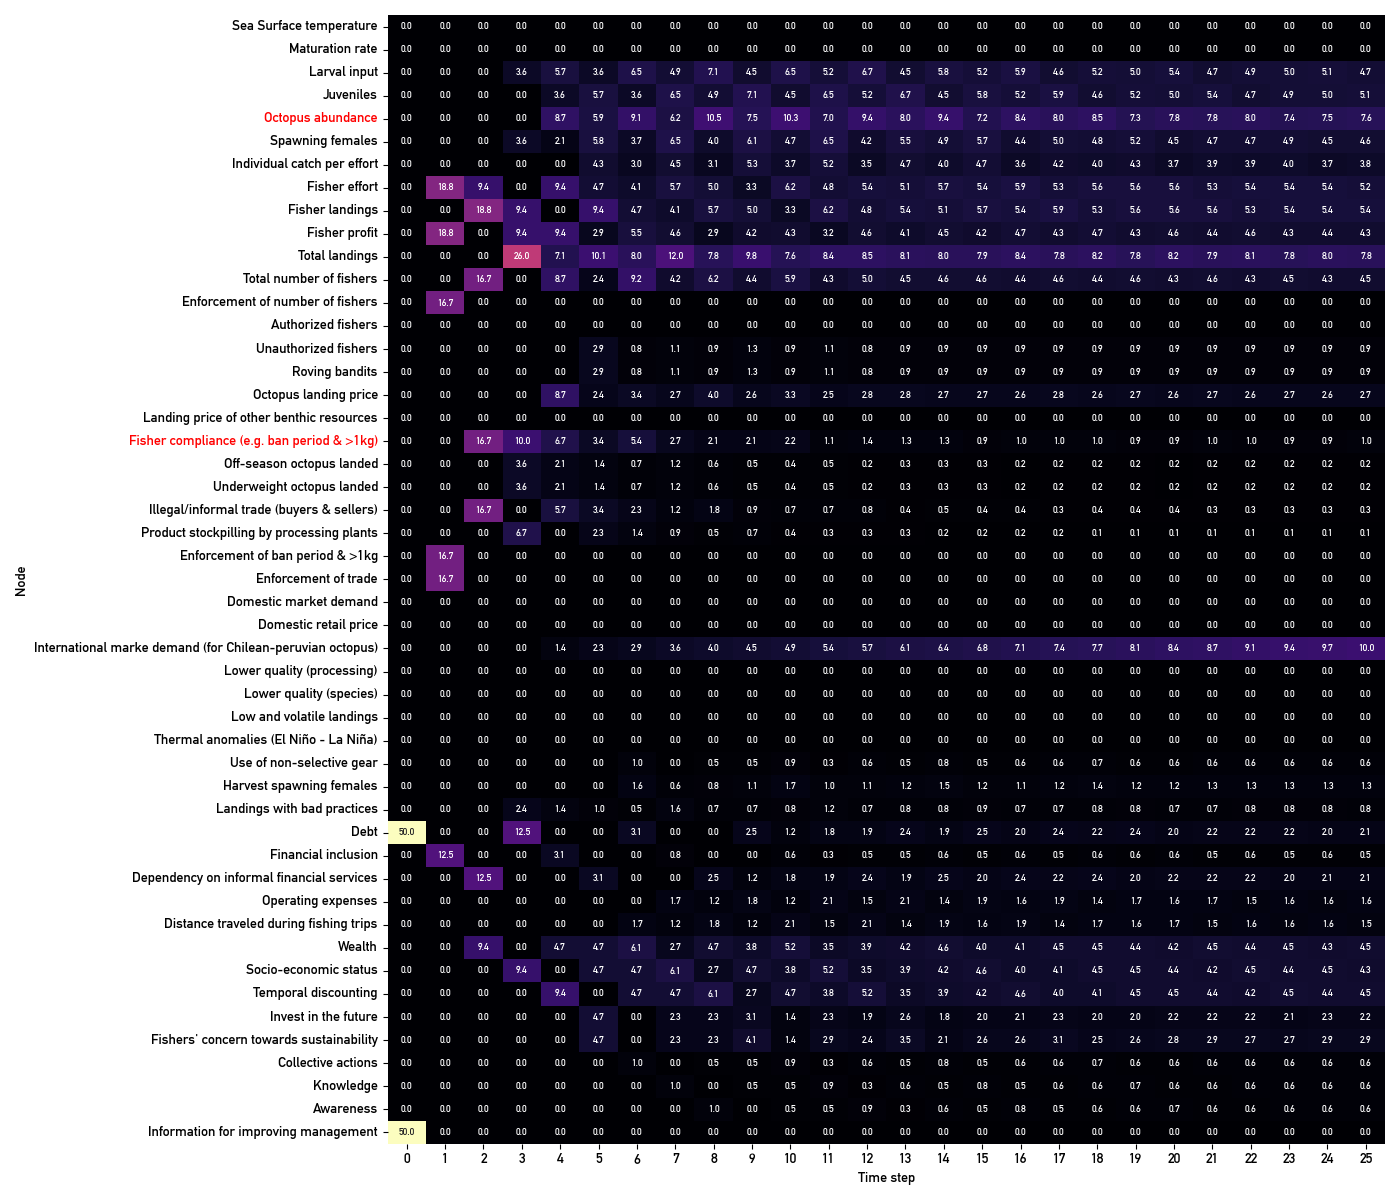
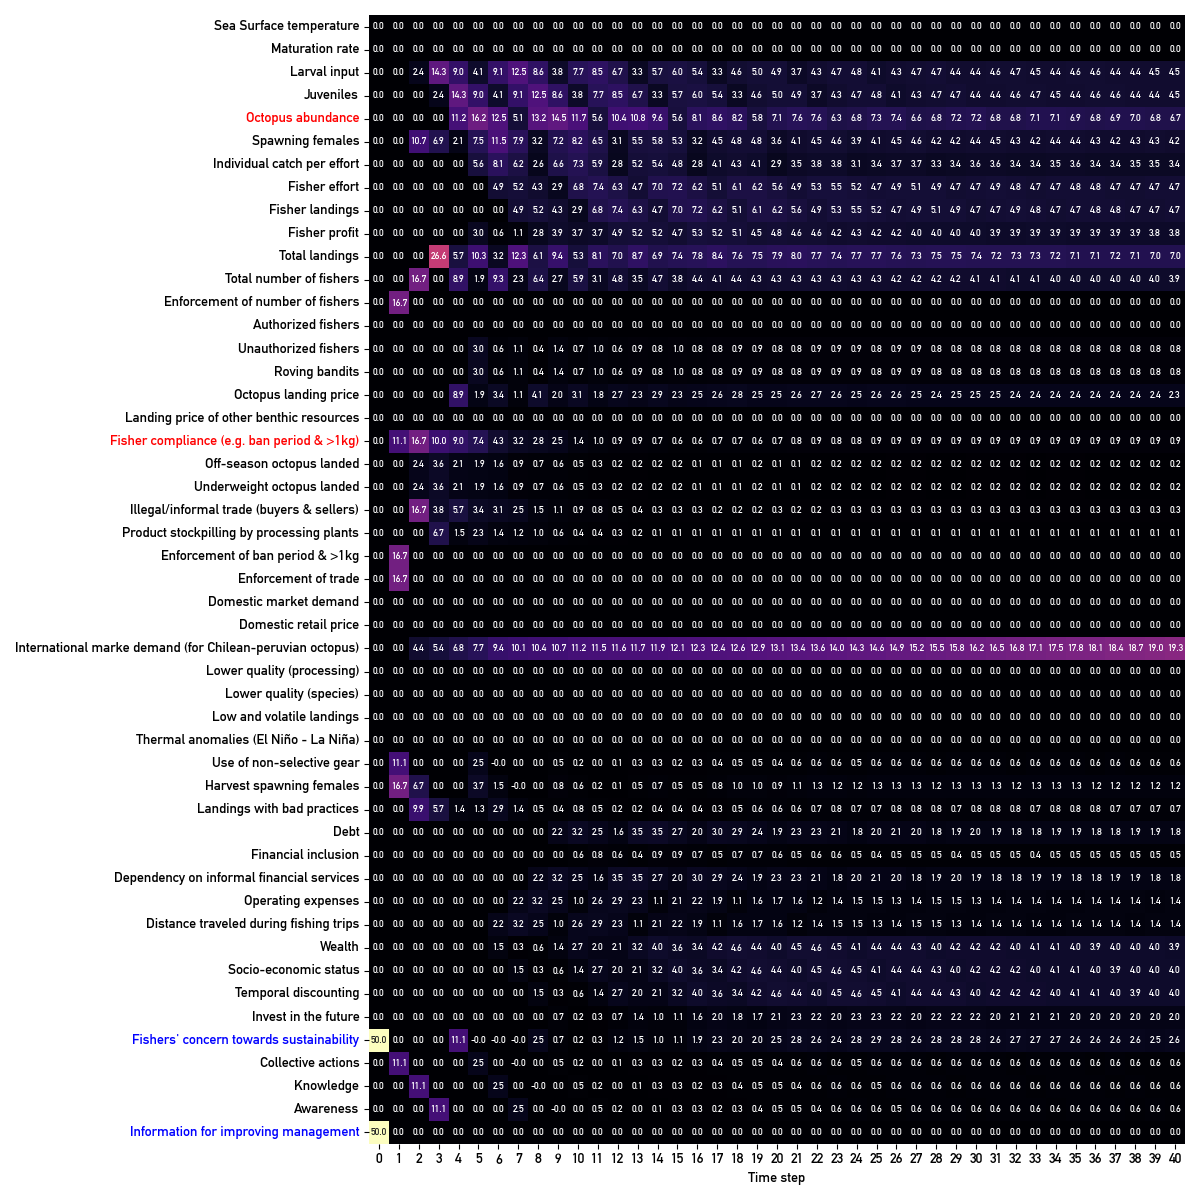
intervention lab single case improvements

Changed region(s): [[0.0308, 0.0, 1.0, 0.9867], [0.0, 0.4625, 0.0308, 0.4933]]

diff --git a/streamlit/utilities.py b/streamlit/utilities.py
@@ -1862,10 +1862,10 @@ def pulse_diffusion_network_model(G, initial_tokens, num_steps, df, log_scale=Fa
 
         with col1:
 
-            st.markdown("#### Percentage of nodes that can be controlled with this intervention package")
+            st.markdown("#### % System leverage of this intervention package")
 
             # Create a gauge chart
-            fig1 = go.Figure(go.Indicator(
+            fig = go.Figure(go.Indicator(
                 mode="gauge+number",
                 value=non_zero_tokens_percentage.mean(),
                 number={'suffix': "%"},  # Add a '%' suffix to the number displayed
@@ -1873,38 +1873,40 @@ def pulse_diffusion_network_model(G, initial_tokens, num_steps, df, log_scale=Fa
             ))
 
             # Display the gauge chart in Streamlit
-            st.plotly_chart(fig1, use_container_width=True)
+            st.plotly_chart(fig, use_container_width=True)
 
         # Identify outcome nodes
         outcome_nodes = df[df['OUTCOME NODE']]['long_name'].tolist()
 
         with col2:
         
-            st.markdown("#### Causal effects of this intervention package on outcome nodes")
+            st.markdown("#### Leverage of this intervention package on the outcome nodes")
 
             # Create a line plot for the outcome nodes
-            fig2, ax = plt.subplots(figsize=(12, 8))
+            fig, ax = plt.subplots(figsize=(12, 8))
+            
             for outcome_node in outcome_nodes:
                 # Compute a moving average with a window size of 5
                 smoothed_token_counts = df_token_counts.loc[outcome_node].rolling(window=rolling_window).mean()
                 ax.plot(smoothed_token_counts, label=outcome_node)
-            plt.xlabel('Time step')
-            plt.ylabel('Token count')
-            plt.legend()
+            
+            plt.xlabel('Time step', fontsize=20)
+            plt.ylabel('Token count', fontsize=20)
+            plt.legend(prop={'size': 20})
             plt.grid(True)
 
             # Save and read graph as png file (on cloud)
             try:
                 path = './streamlit/static'
-                fig2.savefig(f'{path}/causal_effects_line.png')      
-                image = Image.open(f'{path}/causal_effects_line.png')
+                fig.savefig(f'{path}/pulse_causal_effects_line.png')      
+                image = Image.open(f'{path}/pulse_causal_effects_line.png')
                 st.image(image)    
                 
             # Save and read graph as HTML file (locally)
             except:
                 path = 'static'
-                fig2.savefig(f'{path}/causal_effects_line.png')      
-                image = Image.open(f'{path}/causal_effects_line.png')
+                fig.savefig(f'{path}/pulse_causal_effects_line.png')      
+                image = Image.open(f'{path}/pulse_causal_effects_line.png')
                 st.image(image)
 
         # Apply log scale if log_scale is True
@@ -1913,10 +1915,10 @@ def pulse_diffusion_network_model(G, initial_tokens, num_steps, df, log_scale=Fa
     
     if vertical==True:
     
-        st.markdown("#### Percentage of nodes that can be controlled with this intervention package")
+        st.markdown("#### % System leverage of this intervention package")
 
         # Create a gauge chart
-        fig3 = go.Figure(go.Indicator(
+        fig = go.Figure(go.Indicator(
             mode="gauge+number",
             value=non_zero_tokens_percentage.mean(),
             number={'suffix': "%"},  # Add a '%' suffix to the number displayed
@@ -1924,51 +1926,51 @@ def pulse_diffusion_network_model(G, initial_tokens, num_steps, df, log_scale=Fa
         ))
 
         # Display the gauge chart in Streamlit
-        st.plotly_chart(fig3, use_container_width=True)
+        st.plotly_chart(fig, use_container_width=True)
 
-        st.markdown("#### Causal effects of this intervention package on outcome nodes")
+        st.markdown("#### Leverage of this intervention package on the outcome nodes")
 
         # Identify outcome nodes
         outcome_nodes = df[df['OUTCOME NODE']]['long_name'].tolist()
 
         # Create a line plot for the outcome nodes
-        fig4, ax = plt.subplots(figsize=(12, 8))
+        fig, ax = plt.subplots(figsize=(12, 8))
+        
         for outcome_node in outcome_nodes:
             # Compute a moving average with a window size of 5
             smoothed_token_counts = df_token_counts.loc[outcome_node].rolling(window=rolling_window).mean()
             ax.plot(smoothed_token_counts, label=outcome_node)
-        plt.xlabel('Time step')
-        plt.ylabel('Token count')
-        plt.legend()
+        
+        plt.xlabel('Time step', fontsize=20)
+        plt.ylabel('Token count', fontsize=20)
+        plt.legend(prop={'size': 20})
         plt.grid(True)
-
-        # Set y-axis limits
         ax.set_ylim([0, 50])
 
         # Save and read graph as png file (on cloud)
         try:
             path = './streamlit/static'
-            fig4.savefig(f'{path}/causal_effects_line.png')      
+            fig.savefig(f'{path}/causal_effects_line.png')      
             image = Image.open(f'{path}/causal_effects_line.png')
             st.image(image, width=None)    
             
         # Save and read graph as HTML file (locally)
         except:
             path = 'static'
-            fig4.savefig(f'{path}/causal_effects_line.png')      
+            fig.savefig(f'{path}/causal_effects_line.png')      
             image = Image.open(f'{path}/causal_effects_line.png')
             st.image(image, width=None)    
 
 
     # Create a heatmap of the token counts
 
-    st.markdown("#### Causal effects of this intervention package on all nodes (outcome nodes highlighted in red))")
+    st.markdown("#### Leverage of this intervention package on all nodes (red = outcome nodes; blue = intervention nodes)")
 
     # Apply log scale if log_scale is True
     if log_scale:
         df_token_counts = np.log1p(df_token_counts)
 
-    fig5, ax = plt.subplots(figsize=(14, 12))
+    fig, ax = plt.subplots(figsize=(12, 12))
     sns.heatmap(df_token_counts, annot=True, fmt=".1f", cmap='magma', annot_kws={"size": 7}, cbar=False, ax=ax)
 
     # Highlight outcome nodes in red
@@ -1976,14 +1978,19 @@ def pulse_diffusion_network_model(G, initial_tokens, num_steps, df, log_scale=Fa
         if label.get_text() in outcome_nodes:
             label.set_color('red')
 
+    # Highlight nodes that have non-zero token counts (TOKENS column in df dataframe) in blue
+
+    for label in ax.get_yticklabels():
+        if label.get_text() in df[df['TOKENS'] != 0]['long_name'].tolist():
+            label.set_color('blue')
+
     plt.xlabel('Time step')
-    plt.ylabel('Node')
     plt.tight_layout()
 
     # Save and read graph as png file (on cloud)
     try:
         path = './streamlit/static'
-        fig5.savefig(f'{path}/causal_effects_heat.png')      
+        fig.savefig(f'{path}/causal_effects_heat.png')      
         image = Image.open(f'{path}/causal_effects_heat.png')
         left_co, right_co = st.columns([0.05,0.95])
         with right_co:
@@ -1992,7 +1999,7 @@ def pulse_diffusion_network_model(G, initial_tokens, num_steps, df, log_scale=Fa
     # Save and read graph as HTML file (locally)
     except:
         path = 'static'
-        fig5.savefig(f'{path}/causal_effects_heat.png')      
+        fig.savefig(f'{path}/causal_effects_heat.png')      
         image = Image.open(f'{path}/causal_effects_heat.png')
         left_co, right_co = st.columns([0.05,0.95])
         with right_co:
@@ -2009,8 +2016,11 @@ def pulse_diffusion_network_model(G, initial_tokens, num_steps, df, log_scale=Fa
         # Determine the number of rows for the subplots
         num_rows = int(np.ceil(len(df_token_counts) / 3))
 
+        # Find the maximum value in the dataset
+        max_value = df_token_counts.max().max()
+
         # Create a new figure with subplots
-        fig6, axs = plt.subplots(num_rows, 3, figsize=(18, 4*num_rows))
+        fig, axs = plt.subplots(num_rows, 3, figsize=(18, 4*num_rows))
 
         # Flatten the axes array
         axs = axs.flatten()
@@ -2018,13 +2028,17 @@ def pulse_diffusion_network_model(G, initial_tokens, num_steps, df, log_scale=Fa
         # Iterate over each row in the DataFrame
         for ax, (index, row) in zip(axs, df_token_counts.iterrows()):
             ax.plot(row)
-            ax.set_title(index, fontsize=20)  # Increase plot title font
+            if index in outcome_nodes:
+                ax.set_title(index, fontsize=20, color='red')  # Increase plot title font and set color to red
+            else:
+                ax.set_title(index, fontsize=20)  # Increase plot title font
             ax.set_xlabel('Time step')
-            ax.set_ylabel('Token count')
+            ax.set_ylabel('Token count (log scale)')
+            ax.set_ylim([0, max_value])  # Set the y-axis limits
 
         # Remove unused subplots
         for ax in axs[len(df_token_counts):]:
-            fig6.delaxes(ax)
+            fig.delaxes(ax)
 
         # Adjust the layout
         plt.tight_layout()
@@ -2032,14 +2046,14 @@ def pulse_diffusion_network_model(G, initial_tokens, num_steps, df, log_scale=Fa
         # Save and read graph as png file (on cloud)
         try:
             path = './streamlit/static'
-            fig6.savefig(f'{path}/causal_effects_lines_all.png')      
+            fig.savefig(f'{path}/causal_effects_lines_all.png')      
             image = Image.open(f'{path}/causal_effects_lines_all.png')
             st.image(image, use_column_width=True)  
             
         # Save and read graph as HTML file (locally)
         except:
             path = 'static'
-            fig6.savefig(f'{path}/causal_effects_lines_all.png')      
+            fig.savefig(f'{path}/causal_effects_lines_all.png')      
             image = Image.open(f'{path}/causal_effects_lines_all.png')
             st.image(image, use_column_width=True)
 
@@ -2119,18 +2133,29 @@ def flow_diffusion_network_model(G, token_injection_rate, num_steps, df, log_sca
         st.markdown("#### Causal effects of this intervention package on outcome nodes")
 
         # Create a line plot for the outcome nodes
-        fig, ax = plt.subplots(figsize=(12, 6))
+        fig, ax = plt.subplots(figsize=(12, 8))
         for outcome_node in outcome_nodes:
             # Compute a moving average with a window size of 5
             smoothed_token_counts = df_token_counts.loc[outcome_node].rolling(rolling_window).mean()
             ax.plot(smoothed_token_counts, label=outcome_node)
-        plt.xlabel('Time step')
-        plt.ylabel('Token count')
-        plt.legend()
+        plt.xlabel('Time step', fontsize=20)
+        plt.ylabel('Token count', fontsize=20)
+        plt.legend(prop={'size': 20})
         plt.grid(True)
 
-        # Display the line plot in Streamlit
-        st.pyplot(fig)
+        # Save and read graph as png file (on cloud)
+        try:
+            path = './streamlit/static'
+            fig.savefig(f'{path}/flow_causal_effects_line.png')      
+            image = Image.open(f'{path}/flow_causal_effects_line.png')
+            st.image(image)    
+            
+        # Save and read graph as HTML file (locally)
+        except:
+            path = 'static'
+            fig.savefig(f'{path}/flow_causal_effects_line.png')      
+            image = Image.open(f'{path}/flow_causal_effects_line.png')
+            st.image(image)
 
     # Apply log scale if log_scale is True
     if log_scale:
@@ -2140,7 +2165,11 @@ def flow_diffusion_network_model(G, token_injection_rate, num_steps, df, log_sca
 
     st.markdown("#### Causal effects of this intervention package on all nodes (outcome nodes highlighted in red))")
 
-    fig, ax = plt.subplots(figsize=(12, 12))
+    # Apply log scale if log_scale is True
+    if log_scale:
+        df_token_counts = np.log1p(df_token_counts)
+
+    fig, ax = plt.subplots(figsize=(14, 12))
     sns.heatmap(df_token_counts, annot=True, fmt=".1f", cmap='magma', annot_kws={"size": 5}, cbar=False)
 
     # Highlight outcome nodes in red
@@ -2150,9 +2179,71 @@ def flow_diffusion_network_model(G, token_injection_rate, num_steps, df, log_sca
 
     plt.xlabel('Time step')
     plt.ylabel('Node')
+    plt.tight_layout()
 
-    # Display the plot in Streamlit
-    st.pyplot(fig)
+    # Save and read graph as png file (on cloud)
+    try:
+        path = './streamlit/static'
+        fig.savefig(f'{path}/flow_causal_effects_heat.png')      
+        image = Image.open(f'{path}/flow_causal_effects_heat.png')
+        left_co, right_co = st.columns([0.05,0.95])
+        with right_co:
+            st.image(image, use_column_width='auto')    
+        
+    # Save and read graph as HTML file (locally)
+    except:
+        path = 'static'
+        fig.savefig(f'{path}/flow_causal_effects_heat.png')      
+        image = Image.open(f'{path}/flow_causal_effects_heat.png')
+        left_co, right_co = st.columns([0.05,0.95])
+        with right_co:
+            st.image(image, use_column_width='auto')   
+
+    ### Plot individual effects for each node
+
+    # Determine the number of rows for the subplots
+    num_rows = int(np.ceil(len(df_token_counts) / 3))
+
+    # Find the maximum value in the dataset
+    max_value = df_token_counts.max().max()
+
+    # Create a new figure with subplots
+    fig, axs = plt.subplots(num_rows, 3, figsize=(18, 4*num_rows))
+
+    # Flatten the axes array
+    axs = axs.flatten()
+
+    # Iterate over each row in the DataFrame
+    for ax, (index, row) in zip(axs, df_token_counts.iterrows()):
+        ax.plot(row)
+        if index in outcome_nodes:
+            ax.set_title(index, fontsize=20, color='red')  # Increase plot title font and set color to red
+        else:
+            ax.set_title(index, fontsize=20)  # Increase plot title font
+        ax.set_xlabel('Time step')
+        ax.set_ylabel('Token count')
+        ax.set_ylim([0, max_value])  # Set the y-axis limits
+
+    # Remove unused subplots
+    for ax in axs[len(df_token_counts):]:
+        fig.delaxes(ax)
+
+    # Adjust the layout
+    plt.tight_layout()
+
+    # Save and read graph as png file (on cloud)
+    try:
+        path = './streamlit/static'
+        fig.savefig(f'{path}/flow_causal_effects_lines_all.png')      
+        image = Image.open(f'{path}/flow_causal_effects_lines_all.png')
+        st.image(image, use_column_width=True)  
+        
+    # Save and read graph as HTML file (locally)
+    except:
+        path = 'static'
+        fig.savefig(f'{path}/flow_causal_effects_lines_all.png')      
+        image = Image.open(f'{path}/flow_causal_effects_lines_all.png')
+        st.image(image, use_column_width=True)   
 
     return tokens
 
